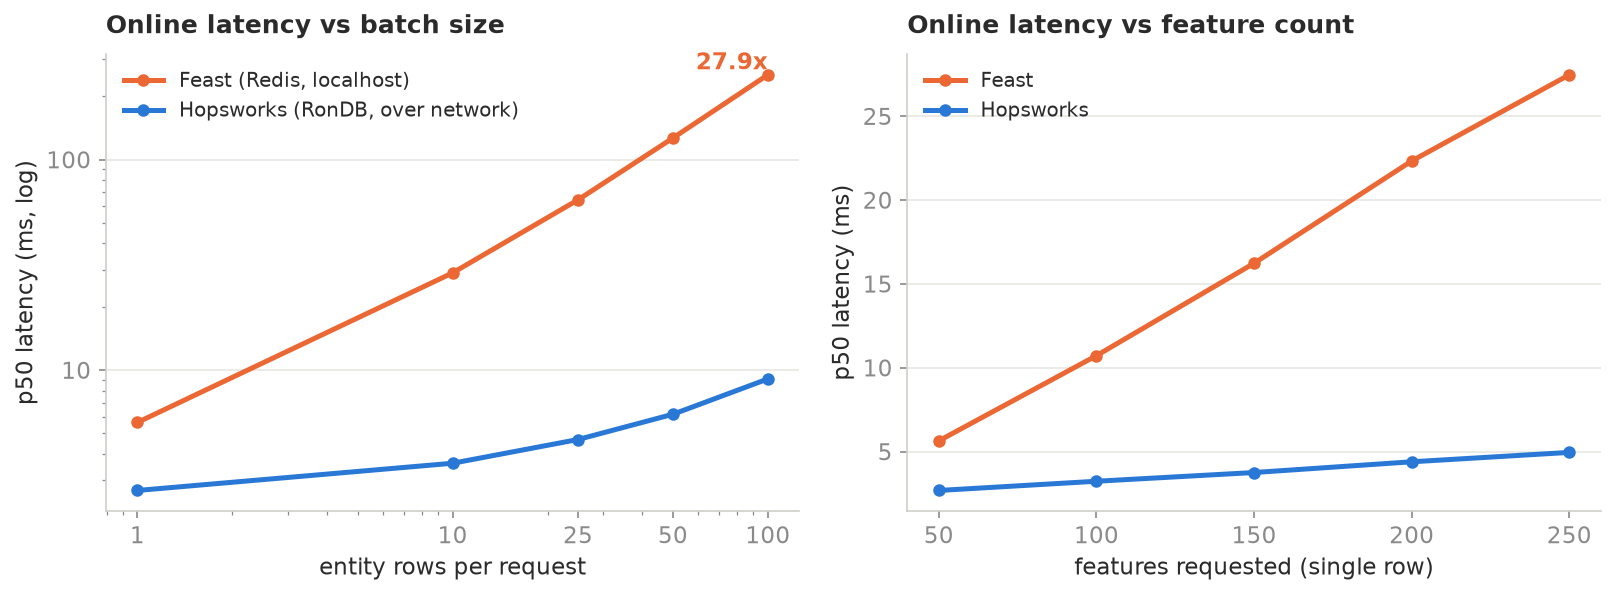
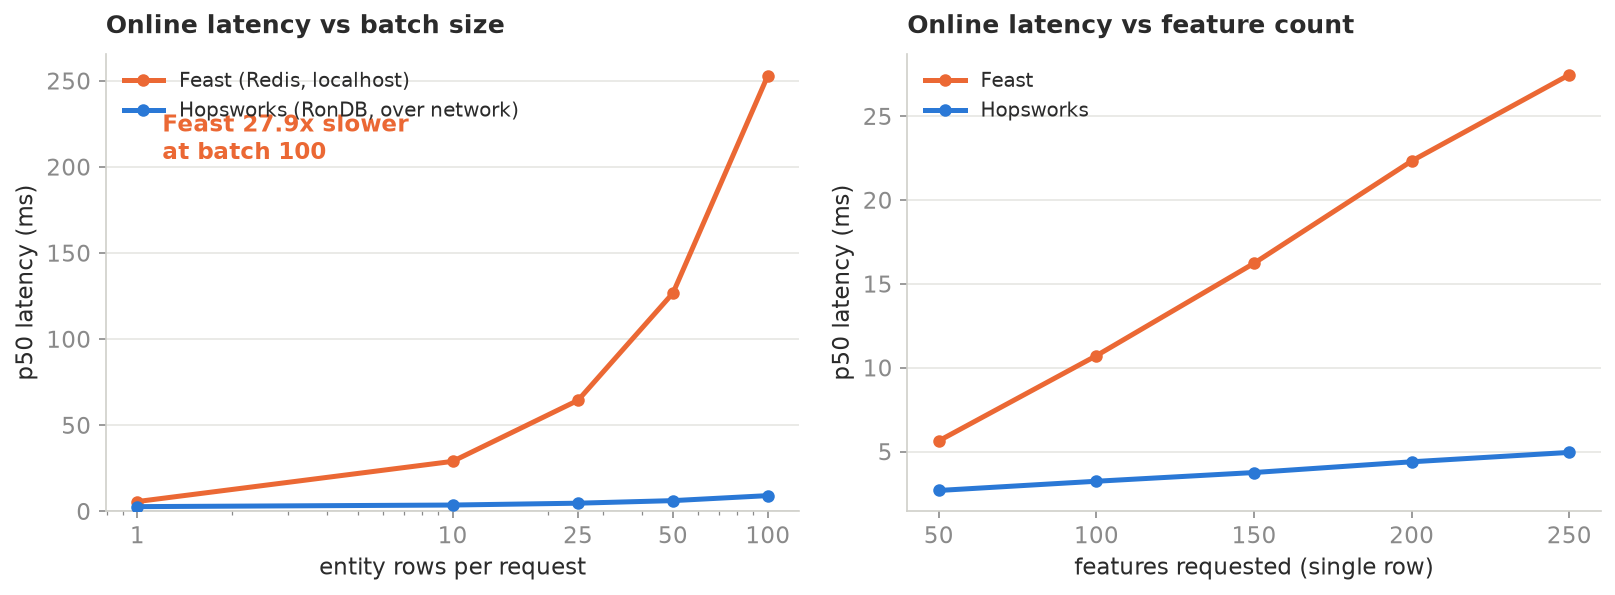
benchmark: linear y-axis on the latency chart
A log y-axis compressed the gap and flattered Feast (253 ms vs 9 ms looked close).
Linear y shows the truth: Feast climbs to 253 ms while RonDB stays flat near the
axis. Reviewer's call, and the honest one.

diff --git a/benchmark/plot.py b/benchmark/plot.py
@@ -34,12 +34,14 @@ fig, (a, b) = plt.subplots(1, 2, figsize=(11, 4.2), dpi=150)
 bx = [1, 10, 25, 50, 100]
 a.plot(bx, [5.64, 28.97, 64.45, 126.70, 253.05], color=FEAST, label="Feast (Redis, localhost)", **MARK)
 a.plot(bx, [2.68, 3.61, 4.68, 6.17, 9.08], color=HOPS, label="Hopsworks (RonDB, over network)", **MARK)
-a.set_xscale("log"); a.set_yscale("log"); a.set_xticks(bx)
+# Linear y on purpose: a log y-axis compresses the gap and flatters Feast. Linear
+# shows the truth, Feast climbs to 253 ms while RonDB stays flat near the axis.
+a.set_xscale("log"); a.set_xticks(bx)
 a.get_xaxis().set_major_formatter(FuncFormatter(lambda v, _: f"{int(v)}"))
-a.get_yaxis().set_major_formatter(FuncFormatter(lambda v, _: f"{int(v)}" if v >= 1 else f"{v:g}"))
+a.set_ylim(bottom=0)
 a.set_title("Online latency vs batch size", fontweight="bold", fontsize=12, pad=10, loc="left")
-a.set_xlabel("entity rows per request"); a.set_ylabel("p50 latency (ms, log)")
-a.annotate("27.9x", xy=(100, 253.05), ha="right", va="bottom", color=FEAST, fontweight="bold", fontsize=11)
+a.set_xlabel("entity rows per request"); a.set_ylabel("p50 latency (ms)")
+a.annotate("Feast 27.9x slower\nat batch 100", xy=(1.2, 232), ha="left", va="top", color=FEAST, fontweight="bold", fontsize=11)
 style(a); a.legend(frameon=False, fontsize=9.5, loc="upper left")
 
 fx = [50, 100, 150, 200, 250]
